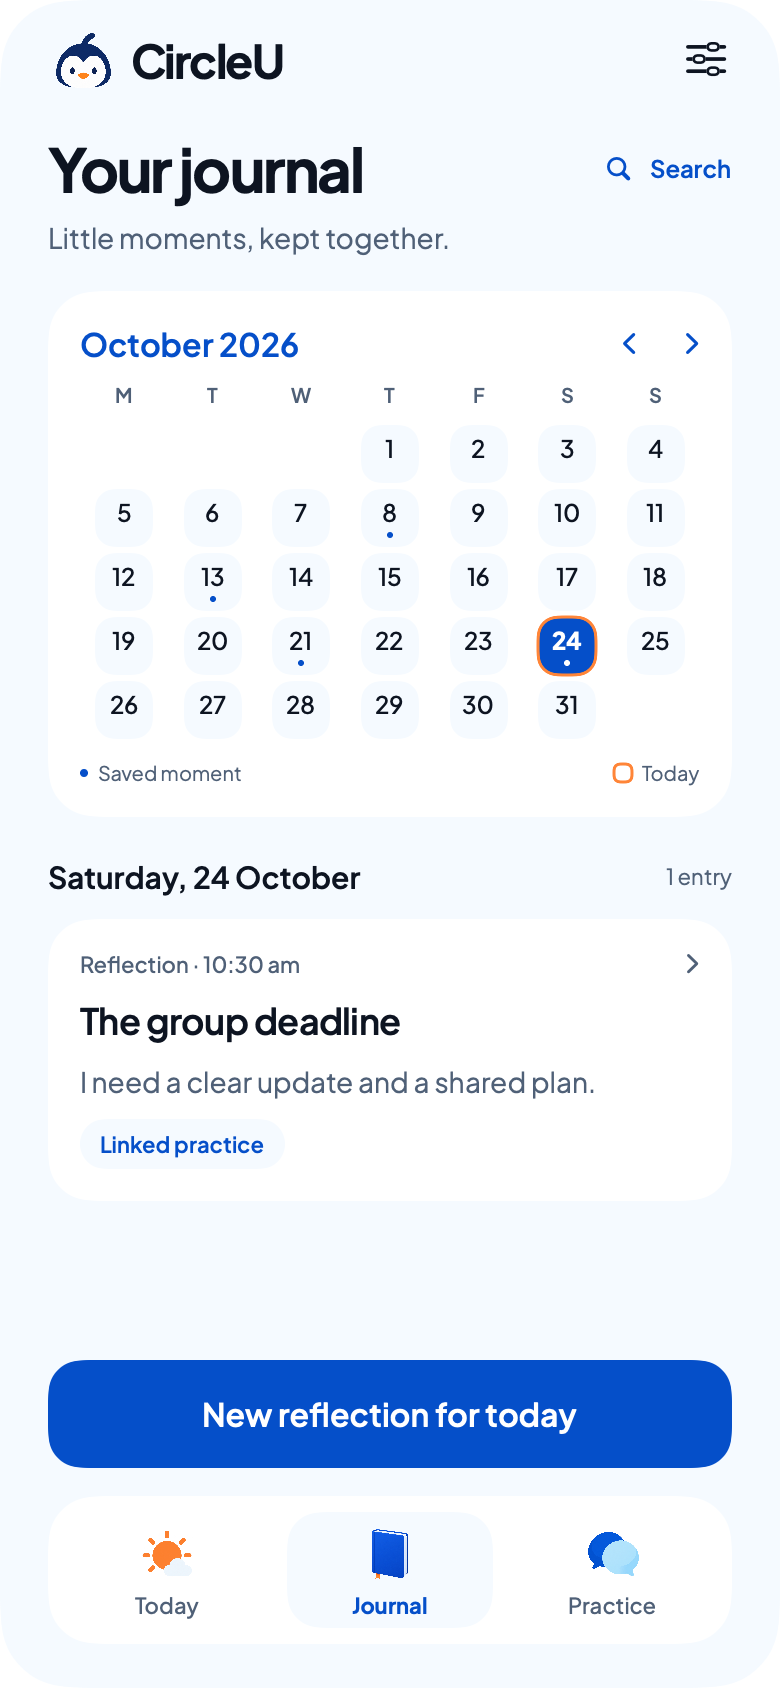
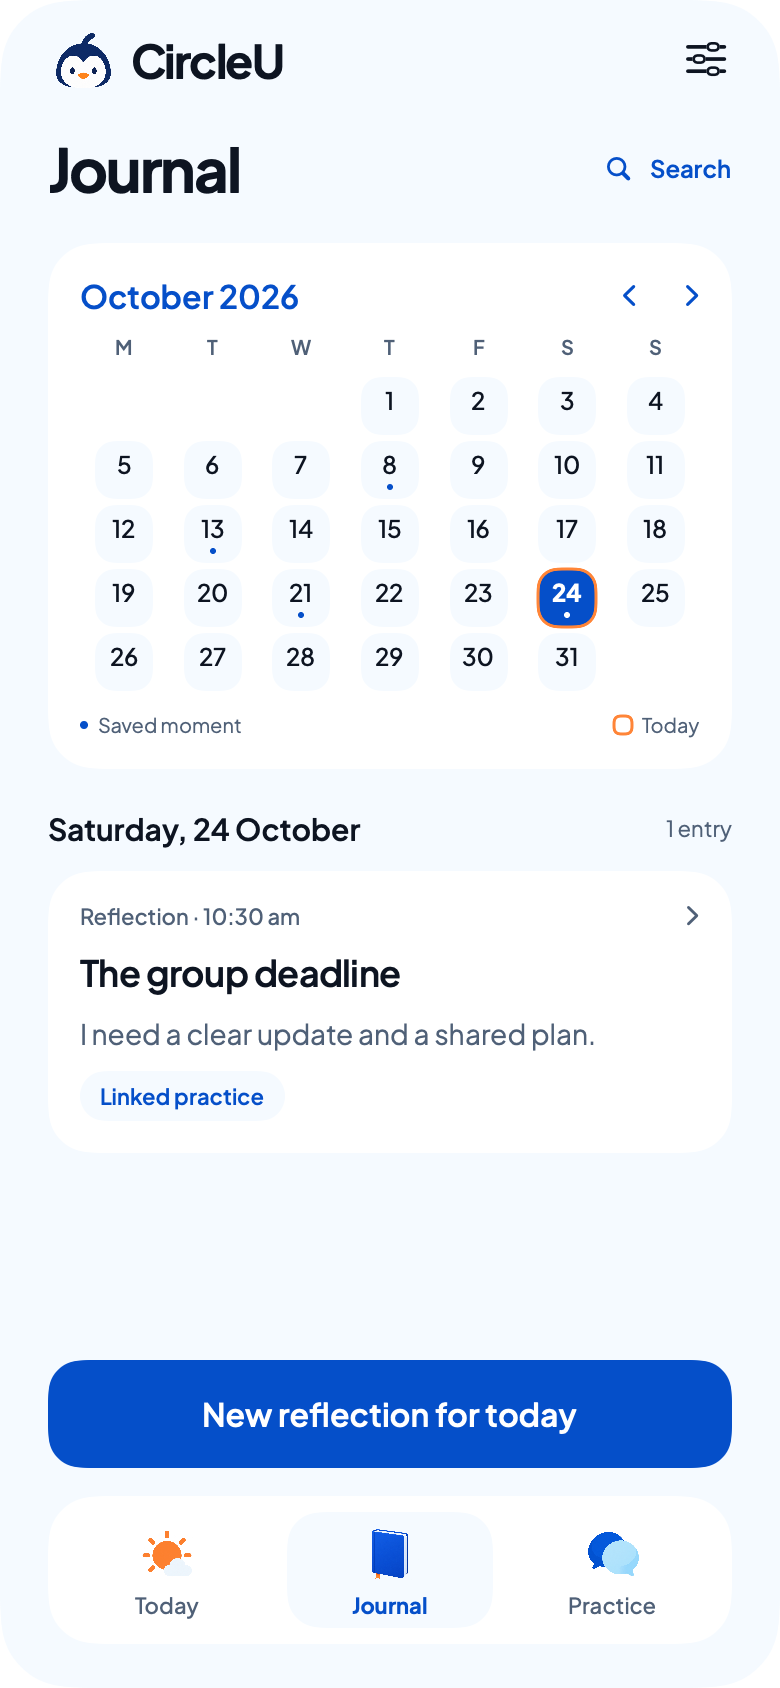
feat(prototype): apply Today walkthrough task 3 and calendar boards
Owner decision: linked vs standalone practice shows as a small icon tag
("From: <entry>" with a link icon, "On its own" with a speech bubble)
on the wording and saved-message screens. The Journal calendar heading
matches the tab-name decision. The preview host can show the calendar
fixtures (--board calendar, calendar-empty, calendar-multiple).
Renders regenerated.

diff --git a/Prototypes/CircleUVisualPrototype/Sources/CircleUVisualPrototype/BrandJourneyPreview.swift b/Prototypes/CircleUVisualPrototype/Sources/CircleUVisualPrototype/BrandJourneyPreview.swift
@@ -164,8 +164,8 @@ public struct BrandJourneyPreview: View {
                 else { BrandFixture.detail("Draft kept. The reflection changed, so review the wording.", size: 13) }
             }
         case .wording:
-            if iconLed { chip(linkedContext ? "From The group deadline" : "Standalone", symbol: linkedContext ? "link" : "bubble.left") }
-            else { BrandFixture.detail(linkedContext ? "Linked to The group deadline" : "Standalone practice · No journal entry", size: 12) }
+            // Owner decision (walkthrough task 3): a small icon tag for linked vs standalone.
+            chip(linkedContext ? "From: The group deadline" : "On its own", symbol: linkedContext ? "link" : "bubble.left")
             block("My aim", text: "Ask for an update and agree on a realistic plan.")
             block("Suggested message", text: message, edit: "Edit message", minimumHeight: 135)
             if iconLed { note("Copy won’t save or send.", symbol: "doc.on.doc") }
@@ -173,8 +173,7 @@ public struct BrandJourneyPreview: View {
                 BrandFixture.detail("Copying won’t save or send it.", size: 13)
             }
         case .practiceDetail:
-            if iconLed { chip(linkedContext ? "From The group deadline" : "24 Oct · Standalone", symbol: linkedContext ? "link" : "clock") }
-            else { BrandFixture.detail(linkedContext ? "Source · The group deadline" : "Standalone message · 24 October 2026", size: 12) }
+            chip(linkedContext ? "From: The group deadline" : "On its own · 24 Oct", symbol: linkedContext ? "link" : "bubble.left")
             block("My message", text: message, edit: "Edit message", minimumHeight: 135)
             if iconLed { note("Saved · Not sent", symbol: "checkmark.circle") }
             else { BrandFixture.detail("Saved · not sent", size: 13) }

diff --git a/Prototypes/CircleUVisualPrototype/CircleUPreviewHost/CircleUPreviewHost/ContentView.swift b/Prototypes/CircleUVisualPrototype/CircleUPreviewHost/CircleUPreviewHost/ContentView.swift
@@ -26,6 +26,8 @@ struct ContentView: View {
                 BrandHubPreview(screen: hub)
             } else if let journey = BrandJourneyScreen(rawValue: name) {
                 BrandJourneyPreview(screen: journey)
+            } else if name == "calendar" || name == "calendar-empty" || name == "calendar-multiple" {
+                JournalCalendarPreview(day: name == "calendar-empty" ? .empty : name == "calendar-multiple" ? .multiple : .saved)
             } else if name == "edit-reflection-leave" {
                 BrandEditorPreview(kind: .reflection, showsLeavePrompt: true)
             } else if name.hasPrefix("edit-"), let kind = EditorPreviewKind(rawValue: String(name.dropFirst(5))) {

diff --git a/Prototypes/CircleUVisualPrototype/Sources/CircleUVisualPrototype/JournalCalendarPreview.swift b/Prototypes/CircleUVisualPrototype/Sources/CircleUVisualPrototype/JournalCalendarPreview.swift
@@ -27,13 +27,12 @@ public struct JournalCalendarPreview: View {
             .padding(.top, 12)
 
             HStack {
-                Text("Your journal").font(BrandDemoFont.font(30, .bold)).tracking(-1)
+                Text("Journal").font(BrandDemoFont.font(30, .bold)).tracking(-1)
                 Spacer()
                 Label("Search", systemImage: "magnifyingglass")
                     .font(BrandDemoFont.font(12, .semibold)).foregroundStyle(BrandDemoColor.blue)
             }
             .padding(.top, 18)
-            BrandFixture.detail("Little moments, kept together.", size: 14).padding(.top, 6)
             calendar.padding(.top, 18)
 
             HStack {

diff --git a/docs/design/prototype-review-results.md b/docs/design/prototype-review-results.md
@@ -10,7 +10,7 @@ Use [Demo 04](brand-demo/core-journeys.md) for appearance and the existing Figma
 | --- | --- | --- | --- | --- | --- | --- | --- |
 | Keep original words without accepting advice | Owner walkthrough 25 Oct; main `812b1ca` boards on phone (CircleU Preview `--board`) | Owner accepted all recommendation cards: start from Work through a moment; Save only my words found on Write and Suggestion screens | Moderated: recommendation cards, static boards | None reported | Low | Rename "Review a reflection" → "Get a suggestion"; Suggestion screen secondary → "Save without suggestion"; keep both full-width; reflection stays opt-in; draft card only when a draft exists (real app) | Prototype copy applied on `codex/today-task1-changes`; not retested |
 | Correct an interpretation, leave, return and find the intended version | Owner walkthrough 25 Oct; Suggestion → Edit reflection → Saved entry boards on phone | Owner accepted: original words shown locked on the edit screen; Journal shows the latest saved version at the top | Moderated: recommendation cards, static boards | None reported | Low | "Edit reflection" becomes a full-width outlined button under the suggestion; Back with unsaved edits asks "Keep editing / Discard" (real app; static prompt state added); remove "This updates the reflection only." | Prototype applied on `codex/today-task1-changes`; not retested |
-| Practice from a reflection, then create an independent message; distinguish Copy and Save | Not run | Not observed | Not observed | Not observed | Unassessed | None yet | Not run |
+| Practice from a reflection, then create an independent message; distinguish Copy and Save | Owner walkthrough 25 Oct; Saved entry → Practice → Wording → Saved message boards | Owner kept Save and Copy as separate buttons and Copy as the main action on the saved message | Moderated: recommendation cards, static boards | None reported | Low | Linked vs standalone shown as a small icon tag ("From: <entry>" with link icon, "On its own" with speech bubble) instead of a grey line | Prototype applied on `codex/preview-assets-demo`; not retested |
 | Find another date's entry, inspect an empty day, then use Search / All entries | Not run | Not observed | Not observed | Not observed | Unassessed | None yet | Not run |
 | Explain proposed storage/recovery and inspect linked-deletion choice/failure | Not run | Not observed | Not observed | Not observed | Unassessed | None yet | Not run |
 
@@ -22,6 +22,7 @@ Owner decisions from the moderated walkthrough. The owner picked from Claude's r
 
 - **Task 1:** "Save only my words" stays a full-width secondary button the same size as the main action. The AI reflection is opt-in: after writing, the person chooses to get a suggestion or to save, and nothing appears automatically. The Suggestion screen offers "Save without suggestion". The Write button is renamed "Get a suggestion". Today shows "Continue your draft" only when a draft exists (real app; the static first-visit board may keep it).
 - **Task 2:** "Edit reflection" is a full-width outlined button under the suggestion. Leaving the editor with unsaved edits asks "Discard your changes?" with Keep editing / Discard: a requirement for the real app, shown here as a static `edit-reflection-leave` board. "This updates the reflection only." is removed. The locked original words on the edit screen and the latest saved version at the top of Journal stay.
+- **Task 3:** linked vs standalone practice is a small icon tag ("From: The group deadline" with a link icon, "On its own" with a speech bubble). Save and Copy stay separate, and Copy stays the main action on a saved message.
 - **Preview demo and assets (PR #7):** other email/password on Log in keep the recovery fixture flow (only the demo account opens the sample workspace); dark mode is deferred until the light screens are final; illustrations stay restrained (one per information or success screen, none on forms or editors).
 - **Screens (during task 1):** remove the "BRAND DEMO · STATIC SAMPLE" footer and the Sample/Draft corner tags from every preview screen; sample status stays in captions, file names and docs.
 

diff --git a/Prototypes/CircleUVisualPrototype/CircleUPreviewHost/README.md b/Prototypes/CircleUVisualPrototype/CircleUPreviewHost/README.md
@@ -4,7 +4,7 @@ Status: Simulator build and selected navigation verified, 24 October 2026. The o
 
 Open `CircleUPreviewHost.xcodeproj` in Xcode for a normal Run of the existing local `CircleUVisualPrototype` library. Close the standalone package window before adding/opening the same local dependency in this project; that resolved a disabled Add Package button during setup. The production Circleu project remains separate.
 
-The app starts at Log in using `BrandOnboardingPreview(initialScreen: .logIn)`. For review and UI tests, launch arguments open other fixtures without editing ContentView: `--screen <welcome|privacy|earlierData|opening|locked|readError>`, `--recovery-screen <BrandRecoveryScreen>` and `--scenario <BrandRecoveryScenario>`. `--board <today|journal|practice|capture|reflection|entry|practice-context|wording|practice-detail>` shows a static Today/Journal/Practice board instead. `edit-reflection`, `edit-message` and `edit-reflection-leave` show the editors.
+The app starts at Log in using `BrandOnboardingPreview(initialScreen: .logIn)`. For review and UI tests, launch arguments open other fixtures without editing ContentView: `--screen <welcome|privacy|earlierData|opening|locked|readError>`, `--recovery-screen <BrandRecoveryScreen>` and `--scenario <BrandRecoveryScenario>`. `--board <today|journal|practice|capture|reflection|entry|practice-context|wording|practice-detail>` shows a static Today/Journal/Practice board instead. `edit-reflection`, `edit-message` and `edit-reflection-leave` show the editors. `calendar`, `calendar-empty` and `calendar-multiple` show the Journal calendar fixtures.
 
 **Demo account (preview only):** on Log in, enter `demo@circleu.app` / `demo1234` to open a sample workspace: swipe between Today, Journal, the Journal calendar (several October entries) and Practice (one linked and one standalone message). `--screen demo` opens it directly. These are invented process-memory fixtures defined in `BrandDemoWorkspace.swift`. Nothing is authenticated, stored or sent, and they are not credentials for the production app or Firebase. Any other email and password keep the existing recovery fixture flow. Back returns to Welcome. Password reset and earlier-data routes use invented, process-memory fixtures; no authentication, email, network, import or persistence service is connected. Never enter real credentials.
 
